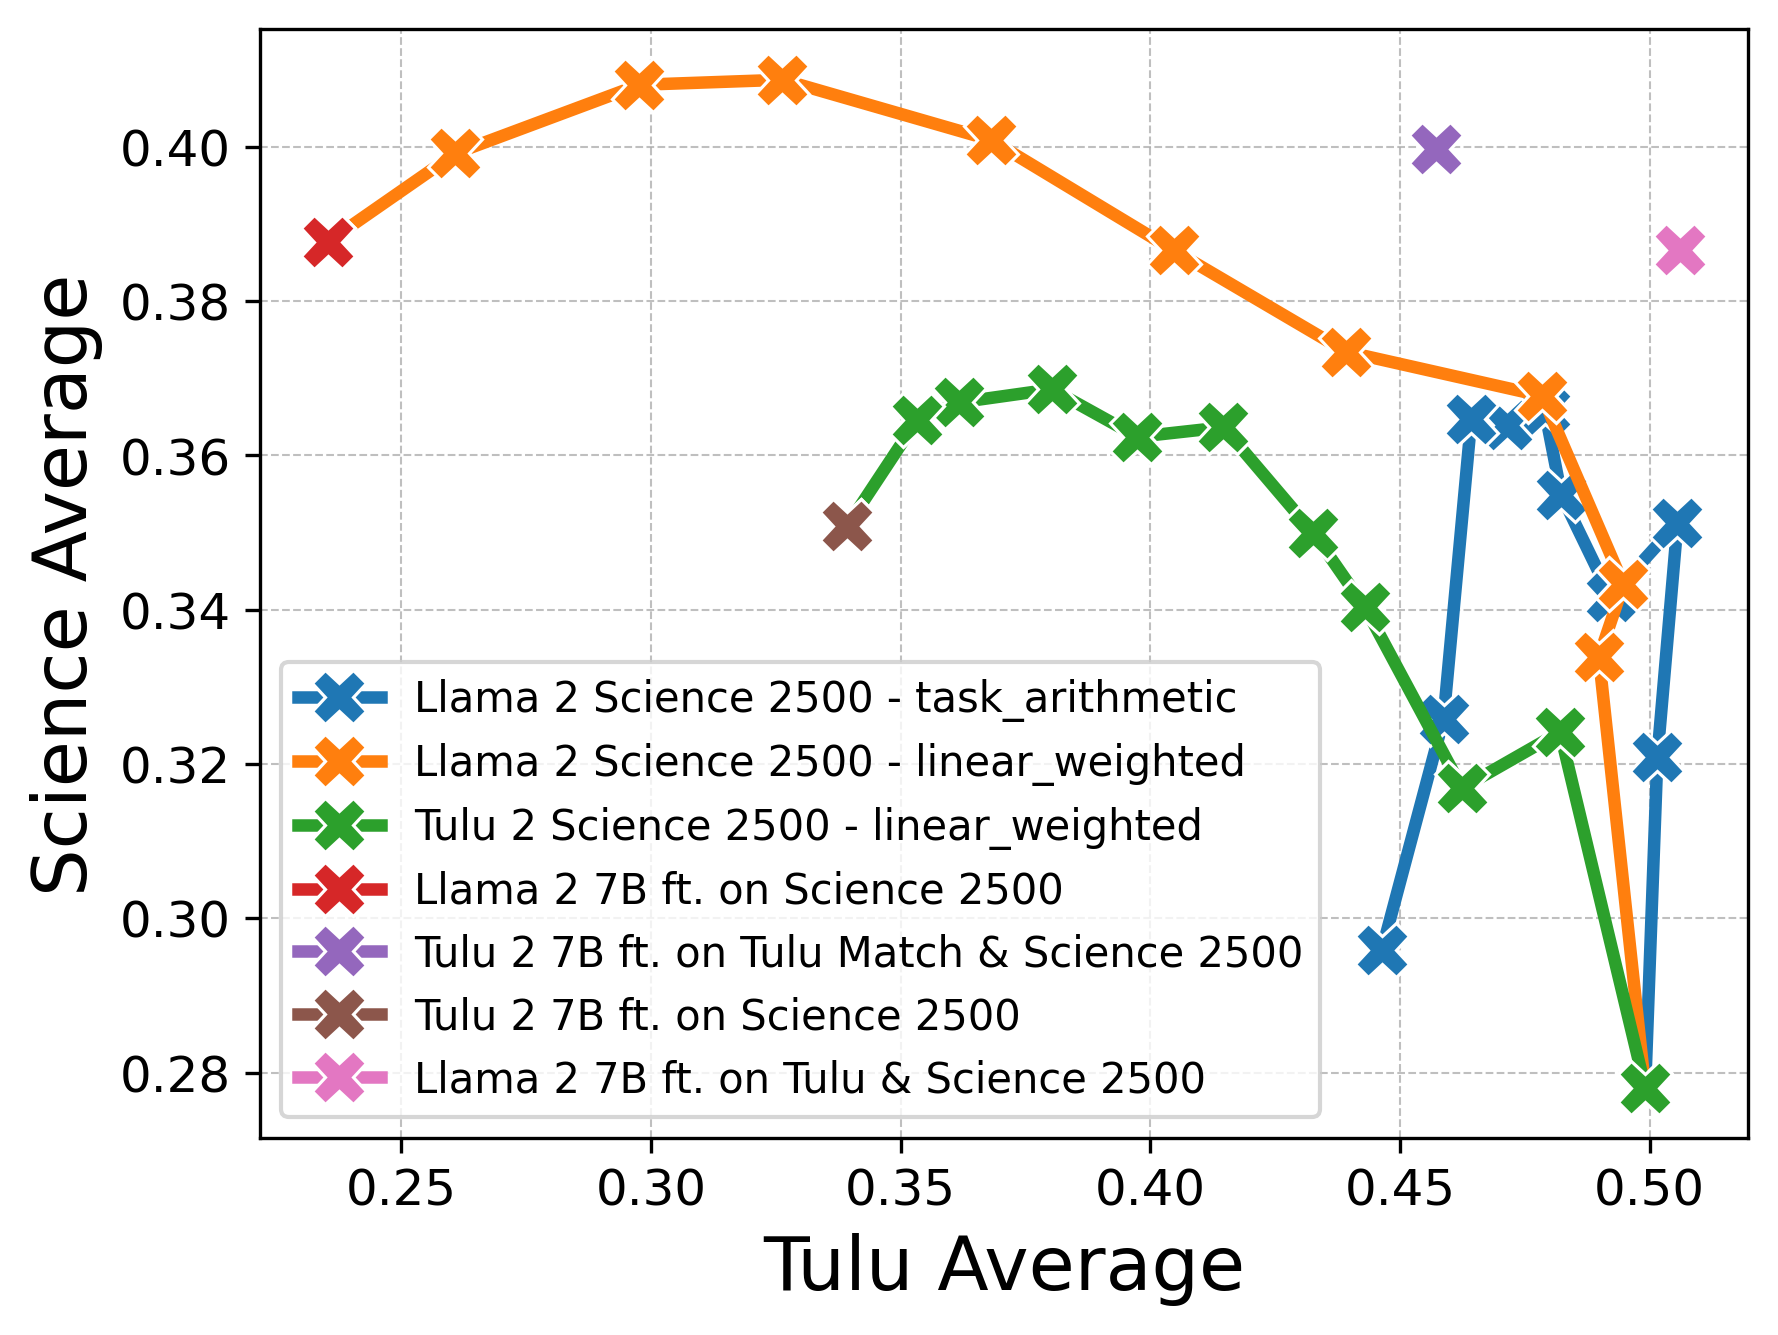
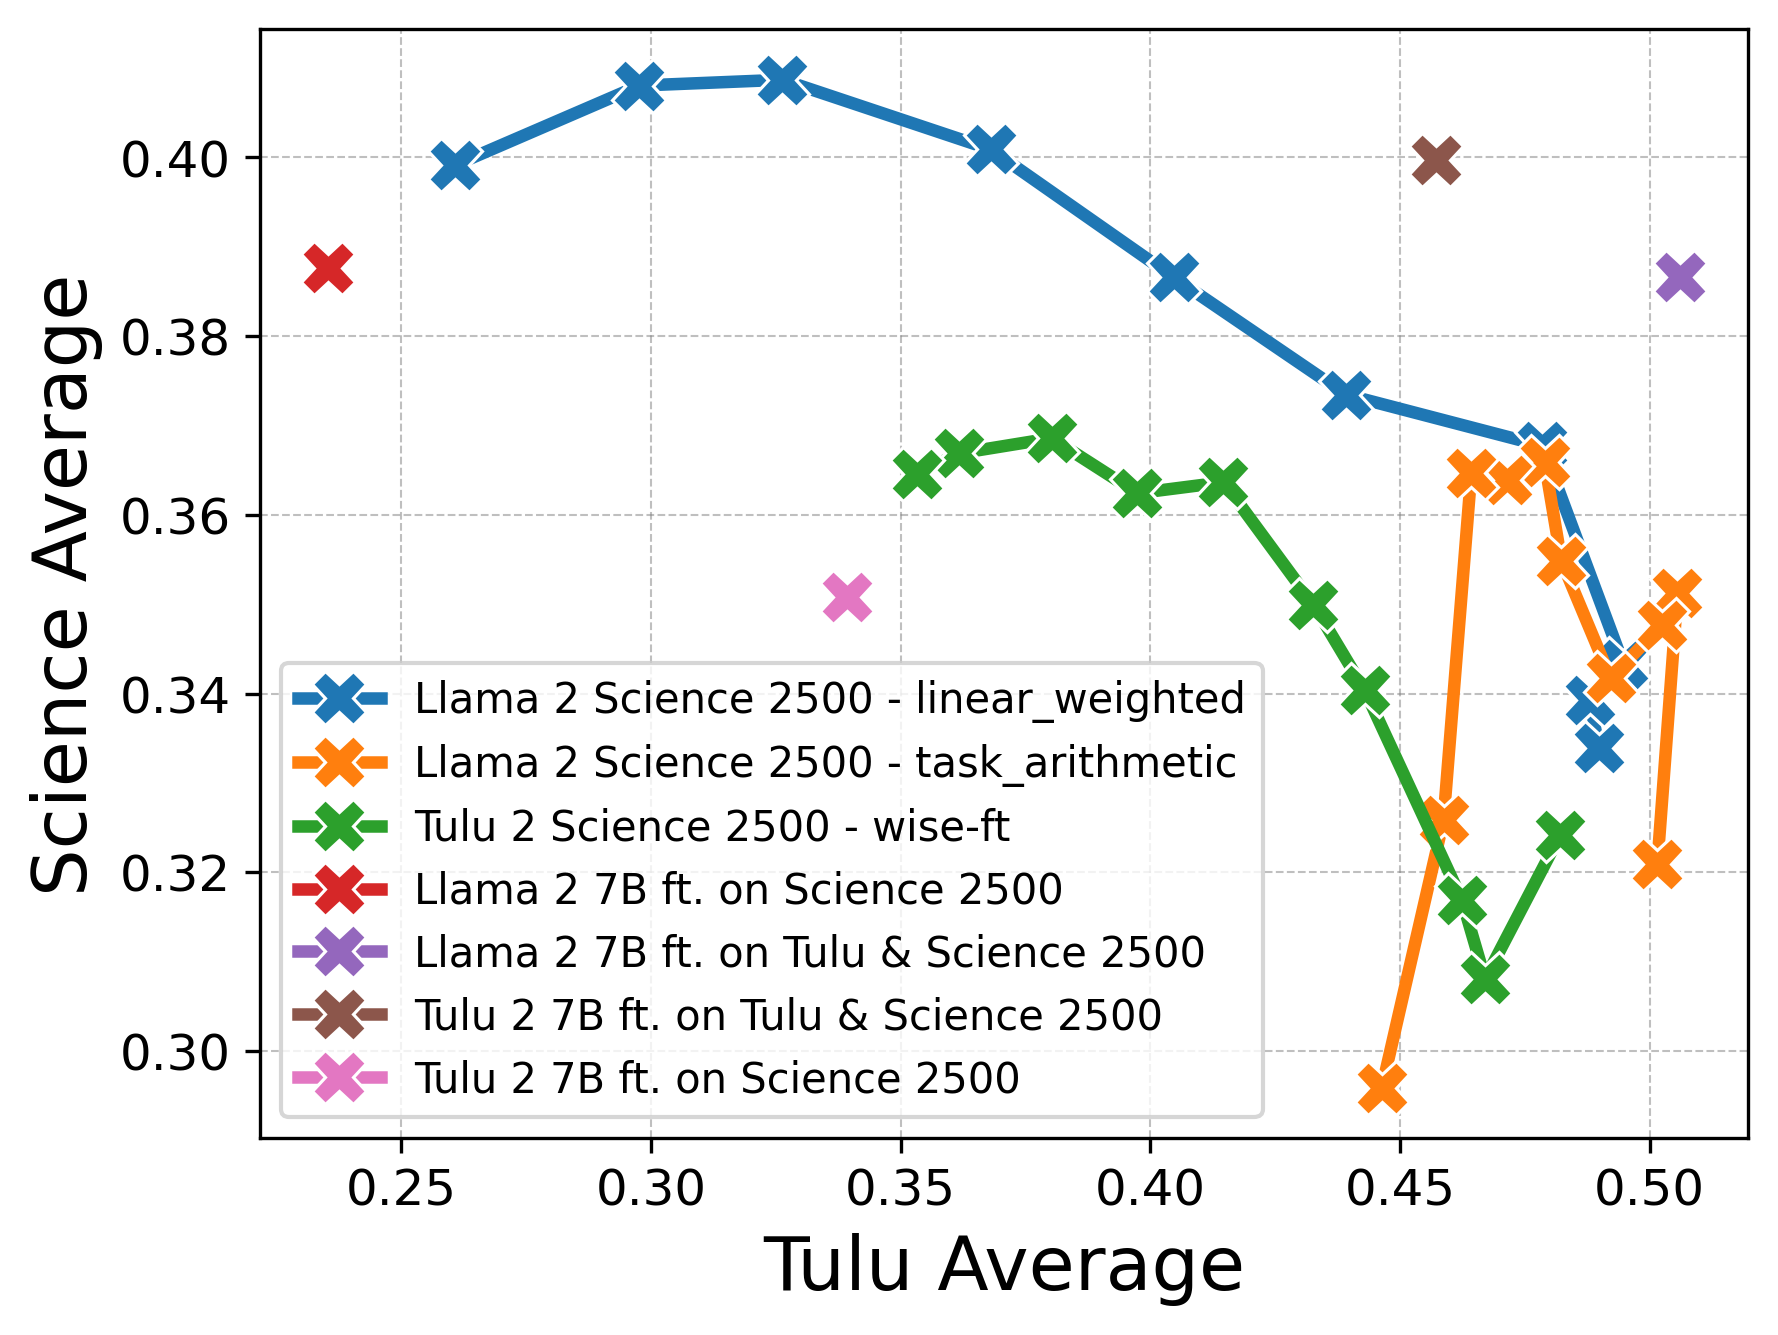
.

diff --git a/results/consistent_mix/collect-results.py b/results/consistent_mix/collect-results.py
@@ -405,55 +405,67 @@ from pprint import pprint
 pprint(data_map.keys())
 
 # TODO: fix!!          
-# for dataset in [
-#     "coding_100",
-#     "safety_100",
-#     "science_2500"
-#     ]:
-#     row = data_map[f"llama_2_7b-tulu_none-{dataset}"].copy()
-#     row["model_key"] = f"linear_weighted-llama_2_7b-tulu_all_0.0-llama_2_7b-tulu_none-{dataset}_1.0"
-#     row["merge_method"] = "linear_weighted"
-#     row["tulu_model_weight"] = 0.0
-#     row["domain_model_weight"] = 1.0
-#     row["tulu_model"] = "tulu_all"
-#     row["domain_model"] = dataset
-#     data_map[f"linear_weighted-llama_2_7b-tulu_all_0.0-llama_2_7b-tulu_none-{dataset}_1.0"] = row
+for dataset in [
+    "coding_20",
+    "coding_40",
+    "coding_60",
+    "coding_80",
+    "coding_100",
+    "safety_20",
+    "safety_40",
+    "safety_60",
+    "safety_80",
+    "safety_100",
+    "science_100"
+    "science_200"
+    "science_500"
+    "science_1000"
+    "science_2500"
+    ]:
+    row = data_map[f"llama_2_7b-tulu_none-{dataset}"].copy()
+    row["model_key"] = f"linear_weighted-llama_2_7b-tulu_all_0.0-llama_2_7b-tulu_none-{dataset}_1.0"
+    row["merge_method"] = "linear_weighted"
+    row["tulu_model_weight"] = 0.0
+    row["domain_model_weight"] = 1.0
+    row["tulu_model"] = "tulu_all"
+    row["domain_model"] = dataset
+    data_map[f"linear_weighted-llama_2_7b-tulu_all_0.0-llama_2_7b-tulu_none-{dataset}_1.0"] = row
 
-#     row2 = data_map["llama_2_7b-tulu_all"].copy()
-#     row2["model_key"] = f"linear_weighted-llama_2_7b-tulu_all_1.0-llama_2_7b-tulu_none-{dataset}_0.0"
-#     row2["merge_method"] = "linear_weighted"
-#     row2["tulu_model_weight"] = 1.0
-#     row2["domain_model_weight"] = 0.0
-#     row2["tulu_model"] = "tulu_all"
-#     row2["domain_model"] = dataset
-#     data_map[f"linear_weighted-llama_2_7b-tulu_all_1.0-llama_2_7b-tulu_none-{dataset}_0.0"] = row2
+    row2 = data_map["llama_2_7b-tulu_all"].copy()
+    row2["model_key"] = f"linear_weighted-llama_2_7b-tulu_all_1.0-llama_2_7b-tulu_none-{dataset}_0.0"
+    row2["merge_method"] = "linear_weighted"
+    row2["tulu_model_weight"] = 1.0
+    row2["domain_model_weight"] = 0.0
+    row2["tulu_model"] = "tulu_all"
+    row2["domain_model"] = dataset
+    data_map[f"linear_weighted-llama_2_7b-tulu_all_1.0-llama_2_7b-tulu_none-{dataset}_0.0"] = row2
 
-#     row3 = data_map["llama_2_7b-tulu_all"].copy()
-#     row3["model_key"] = f"task_arithmetic-llama_2_7b-tulu_all_1.0-llama_2_7b-tulu_none-{dataset}_0.0"
-#     row3["merge_method"] = "task_arithmetic"
-#     row3["tulu_model_weight"] = 1.0
-#     row3["domain_model_weight"] = 0.0
-#     row3["tulu_model"] = "tulu_all"
-#     row3["domain_model"] = dataset
-#     data_map[f"task_arithmetic-llama_2_7b-tulu_all_1.0-llama_2_7b-tulu_none-{dataset}_0.0"] = row3
+    row3 = data_map["llama_2_7b-tulu_all"].copy()
+    row3["model_key"] = f"task_arithmetic-llama_2_7b-tulu_all_1.0-llama_2_7b-tulu_none-{dataset}_0.0"
+    row3["merge_method"] = "task_arithmetic"
+    row3["tulu_model_weight"] = 1.0
+    row3["domain_model_weight"] = 0.0
+    row3["tulu_model"] = "tulu_all"
+    row3["domain_model"] = dataset
+    data_map[f"task_arithmetic-llama_2_7b-tulu_all_1.0-llama_2_7b-tulu_none-{dataset}_0.0"] = row3
 
-#     row4 = data_map["llama_2_7b-tulu_all"].copy()
-#     row4["model_key"] = f"linear_weighted-llama_2_7b-tulu_all_1.0-tulu_2_7b-tulu_none-{dataset}_0.0"
-#     row4["merge_method"] = "linear_weighted"
-#     row4["tulu_model_weight"] = 1.0
-#     row4["domain_model_weight"] = 0.0
-#     row4["tulu_model"] = "tulu_all"
-#     row4["domain_model"] = dataset
-#     data_map[f"linear_weighted-llama_2_7b-tulu_all_1.0-tulu_2_7b-tulu_none-{dataset}_0.0"] = row4
+    row4 = data_map["llama_2_7b-tulu_all"].copy()
+    row4["model_key"] = f"linear_weighted-llama_2_7b-tulu_all_1.0-tulu_2_7b-tulu_none-{dataset}_0.0"
+    row4["merge_method"] = "linear_weighted"
+    row4["tulu_model_weight"] = 1.0
+    row4["domain_model_weight"] = 0.0
+    row4["tulu_model"] = "tulu_all"
+    row4["domain_model"] = dataset
+    data_map[f"linear_weighted-llama_2_7b-tulu_all_1.0-tulu_2_7b-tulu_none-{dataset}_0.0"] = row4
 
-#     row5 = data_map[f"tulu_2_7b-tulu_none-{dataset}"].copy()
-#     row5["model_key"] = f"linear_weighted-llama_2_7b-tulu_all_0.0-tulu_2_7b-tulu_none-{dataset}_1.0"
-#     row5["merge_method"] = "linear_weighted"
-#     row5["tulu_model_weight"] = 0.0
-#     row5["domain_model_weight"] = 1.0
-#     row5["tulu_model"] = "tulu_all"
-#     row5["domain_model"] = dataset
-#     data_map[f"linear_weighted-llama_2_7b-tulu_all_0.0-tulu_2_7b-tulu_none-{dataset}_1.0"] = row5
+    row5 = data_map[f"tulu_2_7b-tulu_none-{dataset}"].copy()
+    row5["model_key"] = f"linear_weighted-llama_2_7b-tulu_all_0.0-tulu_2_7b-tulu_none-{dataset}_1.0"
+    row5["merge_method"] = "linear_weighted"
+    row5["tulu_model_weight"] = 0.0
+    row5["domain_model_weight"] = 1.0
+    row5["tulu_model"] = "tulu_all"
+    row5["domain_model"] = dataset
+    data_map[f"linear_weighted-llama_2_7b-tulu_all_0.0-tulu_2_7b-tulu_none-{dataset}_1.0"] = row5
 
 df = pd.DataFrame(data_map.values())
 print(df)

diff --git a/results/consistent_mix/graph-results.py b/results/consistent_mix/graph-results.py
@@ -64,7 +64,7 @@ def create_model_combo(row):
             domain_model += " " + model_dict[token]
 
     if str(row["merge_method"]) == "nan":
-        return f"{base_model} ft. on {tulu_model} & {domain_model.strip()}".replace(" Tulu None &", "")
+        return f"{base_model} ft. on {tulu_model} & {domain_model.strip()}".replace(" Tulu None &", "").replace(" Tulu Match", " Tulu")
     else:
         # return f"{base_model} ft. on {tulu_model} merged with {domain_model.strip()} ({row['merge_method']})".replace(" Tulu None &", "")
         return f"{domain_model.replace(' 7B Tulu None', '').strip()} - {row['merge_method']}"
